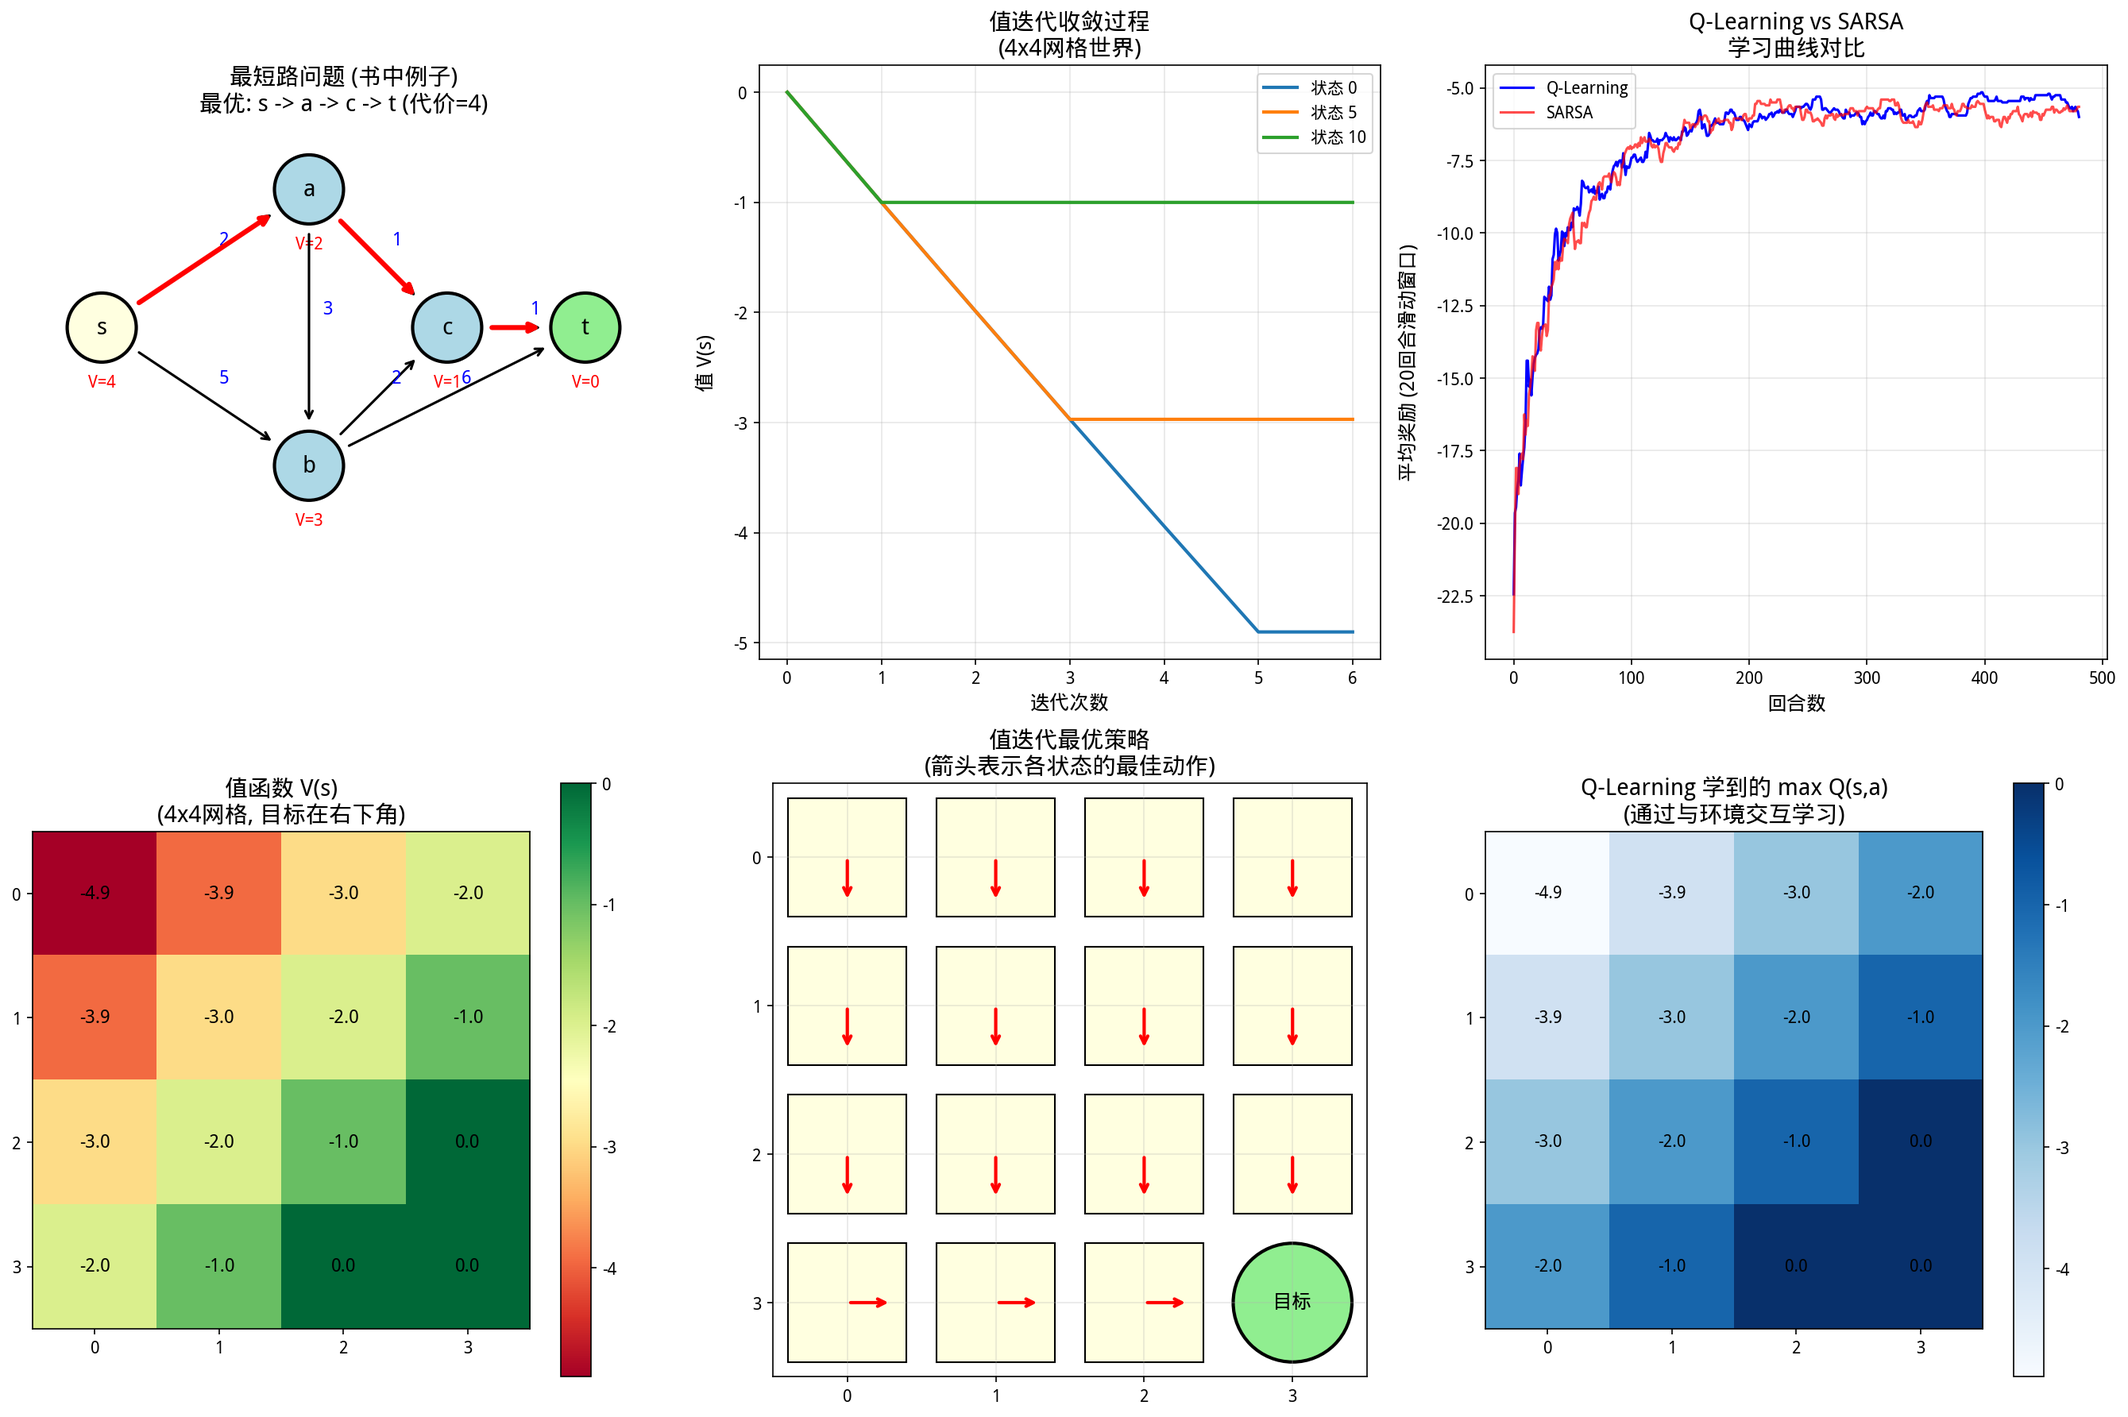
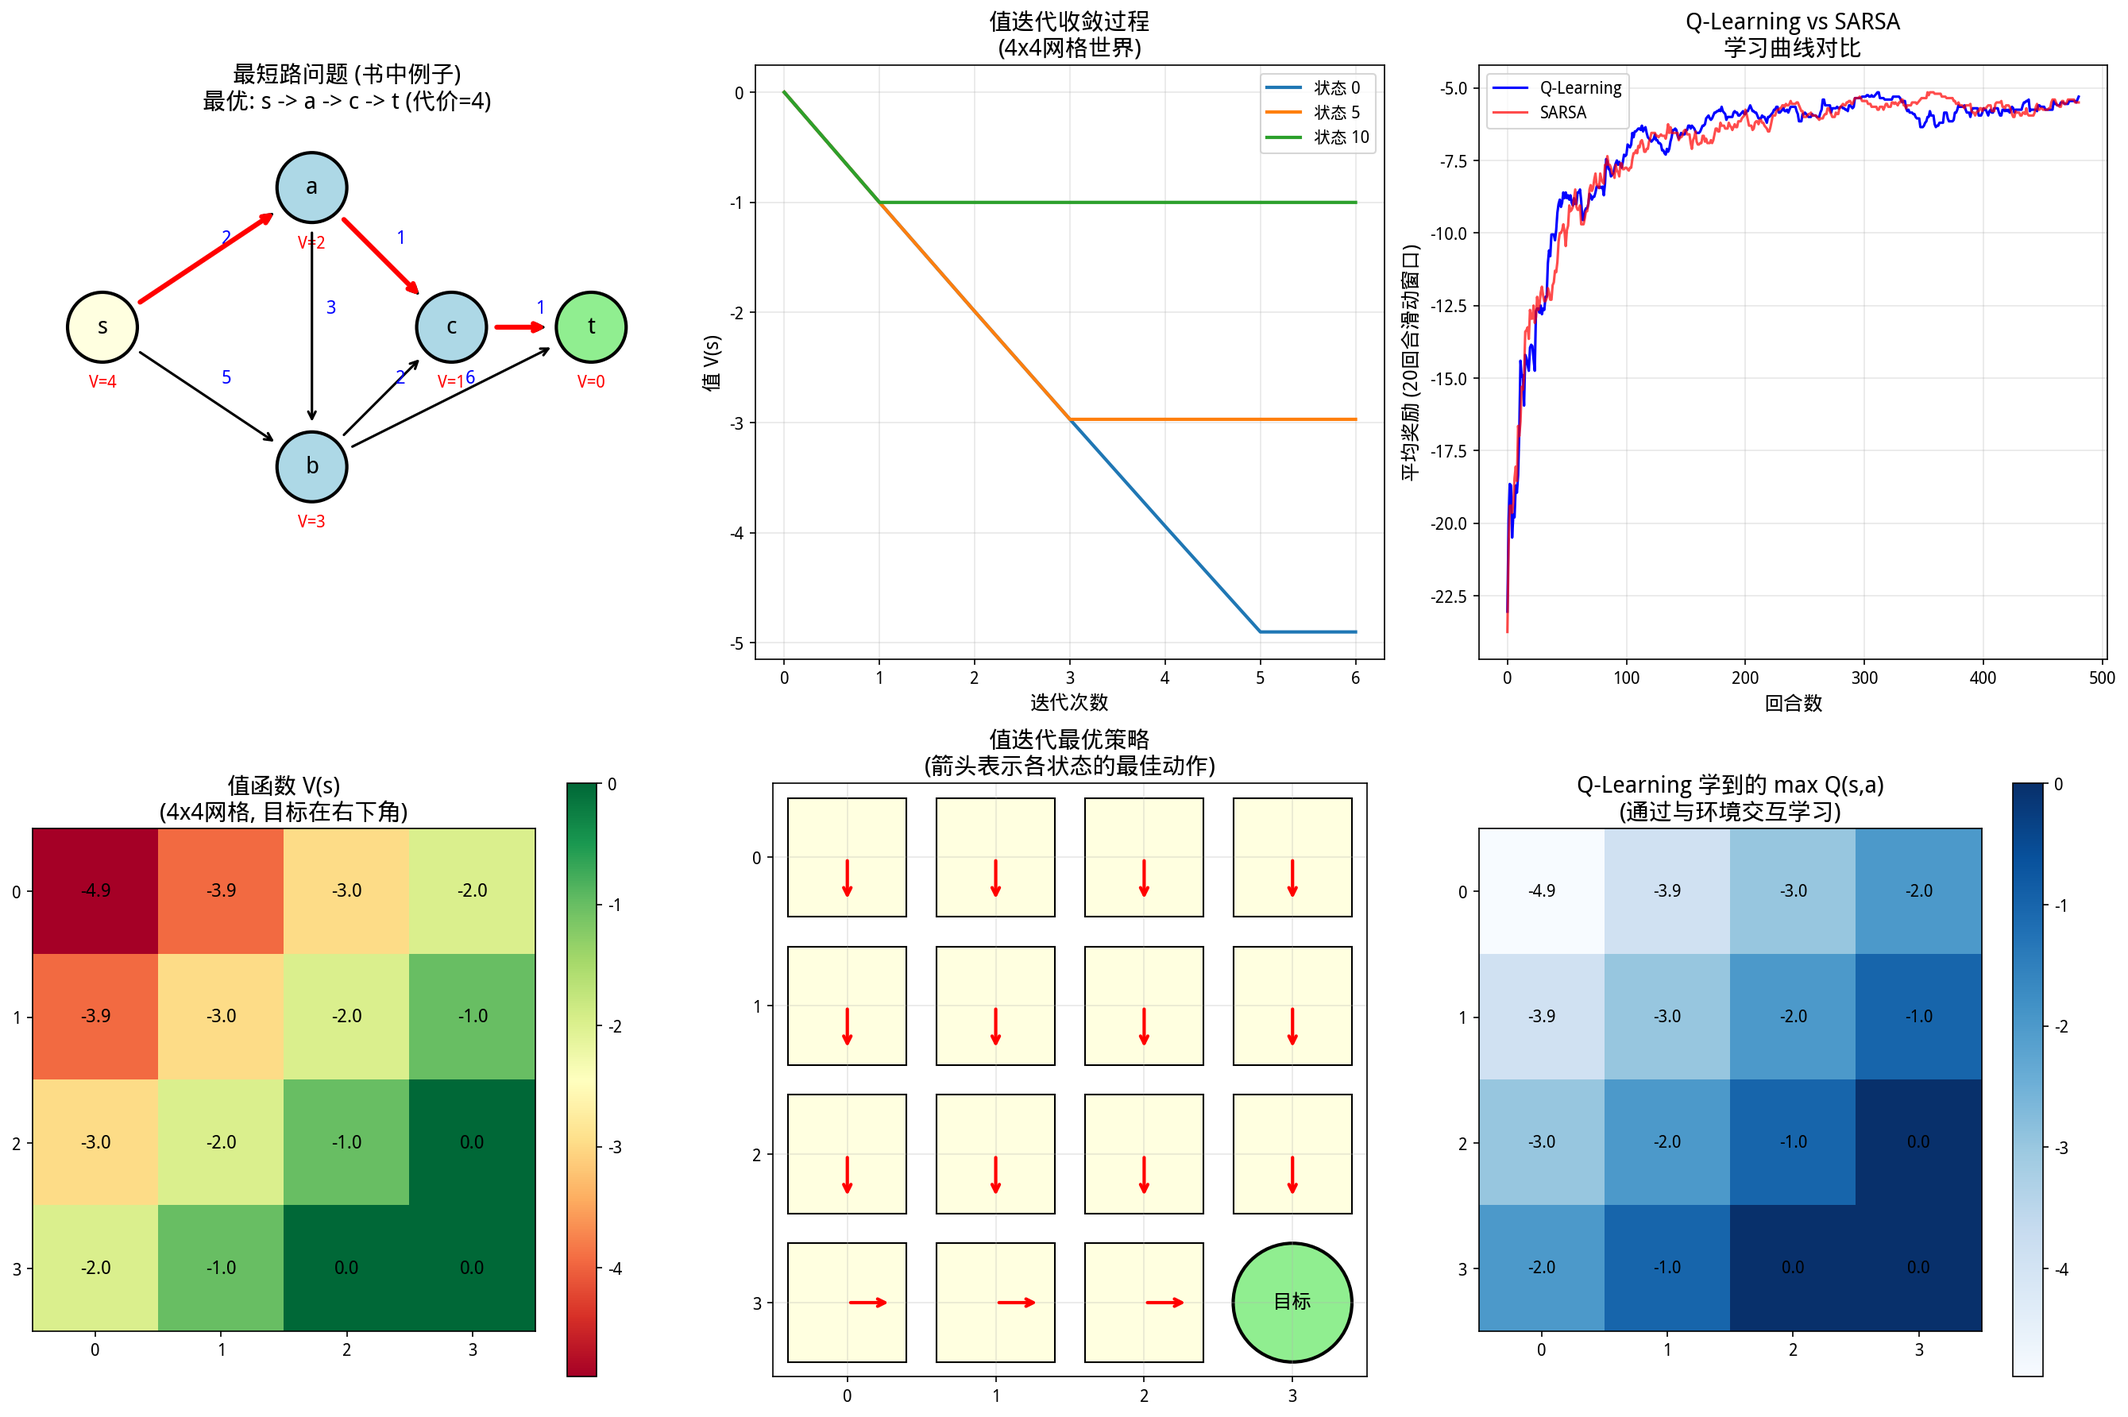
拆分第10章组合图为独立图片并放置到各章节
- 修改chap10_rl.py生成6个独立图片文件
- chap10_shortest_path.png: 放置在最短路问题小节
- chap10_value_iteration.png + chap10_value_heatmap.png: 放置在值迭代小节
- chap10_policy.png: 放置在值迭代小节展示最优策略
- chap10_qlearning_sarsa.png + chap10_qtable.png: 放置在Q-Learning对比小节
- 保留原有组合图chap10_fig1.png作为向后兼容
- 每个图片现在紧跟相关内容，提升阅读体验

diff --git a/code/chap10_rl.py b/code/chap10_rl.py
@@ -296,79 +296,88 @@ Q_sarsa, rewards_sarsa = sarsa(env, episodes=500, alpha=0.1, gamma=0.99, epsilon
 print(f"SARSA 最后100回合平均奖励: {np.mean(rewards_sarsa[-100:]):.2f}")
 print(f"Q-Learning 最后100回合平均奖励: {np.mean(rewards[-100:]):.2f}")
 
-# ==================== 可视化 ====================
-fig, axes = plt.subplots(2, 3, figsize=(18, 12))
+# ==================== 可视化（拆分为独立图片） ====================
 
-# 图1：最短路图
-ax1 = axes[0, 0]
-ax1.set_xlim(-0.5, 4)
-ax1.set_ylim(-0.5, 3)
+# 辅助函数：绘制最短路图
+def plot_shortest_path(ax, V_sp, pos, edges, path_edges):
+    ax.set_xlim(-0.5, 4)
+    ax.set_ylim(-0.5, 3)
+    for node, (x, y) in pos.items():
+        color = 'lightblue' if node not in ['s', 't'] else ('lightgreen' if node == 't' else 'lightyellow')
+        circle = plt.Circle((x, y), 0.25, color=color, ec='black', linewidth=2)
+        ax.add_patch(circle)
+        ax.text(x, y, node, ha='center', va='center', fontsize=14, fontweight='bold')
+        ax.text(x, y-0.4, f'V={V_sp[node]}', ha='center', va='center', fontsize=10, color='red')
+    for start, end, cost in edges:
+        x1, y1 = pos[start]
+        x2, y2 = pos[end]
+        dx, dy = x2 - x1, y2 - y1
+        length = np.sqrt(dx**2 + dy**2)
+        dx, dy = dx/length, dy/length
+        ax.annotate('', xy=(x2-0.3*dx, y2-0.3*dy), xytext=(x1+0.3*dx, y1+0.3*dy),
+                    arrowprops=dict(arrowstyle='->', color='black', lw=1.5))
+        mx, my = (x1+x2)/2, (y1+y2)/2
+        ax.text(mx+0.1, my+0.1, str(cost), fontsize=11, color='blue')
+    for start, end in path_edges:
+        x1, y1 = pos[start]
+        x2, y2 = pos[end]
+        dx, dy = x2 - x1, y2 - y1
+        length = np.sqrt(dx**2 + dy**2)
+        dx, dy = dx/length, dy/length
+        ax.annotate('', xy=(x2-0.3*dx, y2-0.3*dy), xytext=(x1+0.3*dx, y1+0.3*dy),
+                    arrowprops=dict(arrowstyle='->', color='red', lw=3))
+    ax.set_aspect('equal')
+    ax.axis('off')
 
 pos = {'s': (0, 1.5), 'a': (1.5, 2.5), 'b': (1.5, 0.5), 'c': (2.5, 1.5), 't': (3.5, 1.5)}
-
-for node, (x, y) in pos.items():
-    color = 'lightblue' if node not in ['s', 't'] else ('lightgreen' if node == 't' else 'lightyellow')
-    circle = plt.Circle((x, y), 0.25, color=color, ec='black', linewidth=2)
-    ax1.add_patch(circle)
-    ax1.text(x, y, node, ha='center', va='center', fontsize=14, fontweight='bold')
-    ax1.text(x, y-0.4, f'V={V_sp[node]}', ha='center', va='center', fontsize=10, color='red')
-
 edges = [('s', 'a', 2), ('s', 'b', 5), ('a', 'c', 1), ('a', 'b', 3), ('b', 'c', 2), ('b', 't', 6), ('c', 't', 1)]
-for start, end, cost in edges:
-    x1, y1 = pos[start]
-    x2, y2 = pos[end]
-    dx, dy = x2 - x1, y2 - y1
-    length = np.sqrt(dx**2 + dy**2)
-    dx, dy = dx/length, dy/length
-    ax1.annotate('', xy=(x2-0.3*dx, y2-0.3*dy), xytext=(x1+0.3*dx, y1+0.3*dy),
-                arrowprops=dict(arrowstyle='->', color='black', lw=1.5))
-    mx, my = (x1+x2)/2, (y1+y2)/2
-    ax1.text(mx+0.1, my+0.1, str(cost), fontsize=11, color='blue')
-
 path_edges = [('s', 'a'), ('a', 'c'), ('c', 't')]
-for start, end in path_edges:
-    x1, y1 = pos[start]
-    x2, y2 = pos[end]
-    dx, dy = x2 - x1, y2 - y1
-    length = np.sqrt(dx**2 + dy**2)
-    dx, dy = dx/length, dy/length
-    ax1.annotate('', xy=(x2-0.3*dx, y2-0.3*dy), xytext=(x1+0.3*dx, y1+0.3*dy),
-                arrowprops=dict(arrowstyle='->', color='red', lw=3))
 
-ax1.set_aspect('equal')
-ax1.axis('off')
-ax1.set_title('最短路问题 (书中例子)\n最优: s -> a -> c -> t (代价=4)', fontsize=14)
+# === 图1：最短路问题（独立保存）===
+fig1, ax1 = plt.subplots(figsize=(6, 5))
+plot_shortest_path(ax1, V_sp, pos, edges, path_edges)
+ax1.set_title('最短路问题：最优路径 s → a → c → t（代价=4）', fontsize=12)
+plt.tight_layout()
+plt.savefig('figs/chap10_shortest_path.png', dpi=150, bbox_inches='tight')
+print("已保存：figs/chap10_shortest_path.png")
+plt.close(fig1)
 
-# 图2：值迭代收敛
-ax2 = axes[0, 1]
+# === 图2：值迭代收敛（独立保存）===
+fig2, ax2 = plt.subplots(figsize=(6, 4))
 for s in [0, 5, 10]:
     values = [V_history[i][s] for i in range(len(V_history))]
     ax2.plot(values, label=f'状态 {s}', linewidth=2)
 ax2.set_xlabel('迭代次数', fontsize=12)
-ax2.set_ylabel('值 V(s)', fontsize=12, labelpad=10)
-ax2.set_title('值迭代收敛过程\n(4x4网格世界)', fontsize=14)
+ax2.set_ylabel('值 V(s)', fontsize=12)
+ax2.set_title('值迭代收敛过程（4×4网格世界）', fontsize=12)
 ax2.legend()
 ax2.grid(True, alpha=0.3)
+plt.tight_layout()
+plt.savefig('figs/chap10_value_iteration.png', dpi=150, bbox_inches='tight')
+print("已保存：figs/chap10_value_iteration.png")
+plt.close(fig2)
 
-# 图3：值函数热力图
-ax3 = axes[1, 0]
+# === 图3：值函数热力图（独立保存）===
+fig3, ax3 = plt.subplots(figsize=(5, 4))
 im = ax3.imshow(V.reshape(4, 4), cmap='RdYlGn')
 ax3.set_xticks(range(4))
 ax3.set_yticks(range(4))
 for i in range(4):
     for j in range(4):
         ax3.text(j, i, f'{V[i*4+j]:.1f}', ha='center', va='center', fontsize=11)
-ax3.set_title('值函数 V(s)\n(4x4网格, 目标在右下角)', fontsize=14)
+ax3.set_title('值函数 V(s)（4×4网格，目标在右下角）', fontsize=12)
 plt.colorbar(im, ax=ax3)
+plt.tight_layout()
+plt.savefig('figs/chap10_value_heatmap.png', dpi=150, bbox_inches='tight')
+print("已保存：figs/chap10_value_heatmap.png")
+plt.close(fig3)
 
-# 图4：最优策略
-ax4 = axes[1, 1]
+# === 图4：最优策略（独立保存）===
+fig4, ax4 = plt.subplots(figsize=(5, 5))
 arrow_dx = {0: 0, 1: 0, 2: -0.3, 3: 0.3}
 arrow_dy = {0: 0.3, 1: -0.3, 2: 0, 3: 0}
-
 ax4.set_xlim(-0.5, 3.5)
 ax4.set_ylim(-0.5, 3.5)
-
 for i in range(4):
     for j in range(4):
         s = i * 4 + j
@@ -382,29 +391,36 @@ for i in range(4):
             ax4.annotate('', xy=(j+arrow_dx[a], 3-i+arrow_dy[a]),
                         xytext=(j, 3-i),
                         arrowprops=dict(arrowstyle='->', color='red', lw=2))
-
 ax4.set_aspect('equal')
 ax4.set_xticks(range(4))
 ax4.set_yticks(range(4))
 ax4.set_yticklabels([3, 2, 1, 0])
-ax4.set_title('值迭代最优策略\n(箭头表示各状态的最佳动作)', fontsize=14)
+ax4.set_title('值迭代最优策略（箭头表示最佳动作）', fontsize=12)
 ax4.grid(True, alpha=0.3)
+plt.tight_layout()
+plt.savefig('figs/chap10_policy.png', dpi=150, bbox_inches='tight')
+print("已保存：figs/chap10_policy.png")
+plt.close(fig4)
 
-# 图5：Q-Learning 学习曲线
-ax5 = axes[0, 2]
+# === 图5：Q-Learning vs SARSA 学习曲线（独立保存）===
+fig5, ax5 = plt.subplots(figsize=(7, 4))
 window = 20
 smoothed_rewards = np.convolve(rewards, np.ones(window)/window, mode='valid')
 ax5.plot(smoothed_rewards, 'b-', linewidth=1.5, label='Q-Learning')
 smoothed_sarsa = np.convolve(rewards_sarsa, np.ones(window)/window, mode='valid')
 ax5.plot(smoothed_sarsa, 'r-', linewidth=1.5, alpha=0.7, label='SARSA')
 ax5.set_xlabel('回合数', fontsize=12)
-ax5.set_ylabel('平均奖励 (20回合滑动窗口)', fontsize=12, labelpad=10)
-ax5.set_title('Q-Learning vs SARSA\n学习曲线对比', fontsize=14)
+ax5.set_ylabel('平均奖励（20回合滑动窗口）', fontsize=12)
+ax5.set_title('Q-Learning vs SARSA 学习曲线对比', fontsize=12)
 ax5.legend()
 ax5.grid(True, alpha=0.3)
+plt.tight_layout()
+plt.savefig('figs/chap10_qlearning_sarsa.png', dpi=150, bbox_inches='tight')
+print("已保存：figs/chap10_qlearning_sarsa.png")
+plt.close(fig5)
 
-# 图6：Q 表可视化（热力图）
-ax6 = axes[1, 2]
+# === 图6：Q表热力图（独立保存）===
+fig6, ax6 = plt.subplots(figsize=(5, 4))
 Q_max = np.max(Q_learned, axis=1).reshape(4, 4)
 im6 = ax6.imshow(Q_max, cmap='Blues')
 ax6.set_xticks(range(4))
@@ -412,12 +428,85 @@ ax6.set_yticks(range(4))
 for i in range(4):
     for j in range(4):
         ax6.text(j, i, f'{Q_max[i, j]:.1f}', ha='center', va='center', fontsize=10)
-ax6.set_title('Q-Learning 学到的 max Q(s,a)\n(通过与环境交互学习)', fontsize=14)
+ax6.set_title('Q-Learning 学到的 max Q(s,a)', fontsize=12)
 plt.colorbar(im6, ax=ax6)
+plt.tight_layout()
+plt.savefig('figs/chap10_qtable.png', dpi=150, bbox_inches='tight')
+print("已保存：figs/chap10_qtable.png")
+plt.close(fig6)
+
+# === 保留原有的组合图（向后兼容）===
+fig, axes = plt.subplots(2, 3, figsize=(18, 12))
+
+# 子图1：最短路
+plot_shortest_path(axes[0, 0], V_sp, pos, edges, path_edges)
+axes[0, 0].set_title('最短路问题 (书中例子)\n最优: s -> a -> c -> t (代价=4)', fontsize=14)
+
+# 子图2：值迭代收敛
+for s in [0, 5, 10]:
+    values = [V_history[i][s] for i in range(len(V_history))]
+    axes[0, 1].plot(values, label=f'状态 {s}', linewidth=2)
+axes[0, 1].set_xlabel('迭代次数', fontsize=12)
+axes[0, 1].set_ylabel('值 V(s)', fontsize=12)
+axes[0, 1].set_title('值迭代收敛过程\n(4x4网格世界)', fontsize=14)
+axes[0, 1].legend()
+axes[0, 1].grid(True, alpha=0.3)
+
+# 子图3：值函数热力图
+im3 = axes[1, 0].imshow(V.reshape(4, 4), cmap='RdYlGn')
+axes[1, 0].set_xticks(range(4))
+axes[1, 0].set_yticks(range(4))
+for i in range(4):
+    for j in range(4):
+        axes[1, 0].text(j, i, f'{V[i*4+j]:.1f}', ha='center', va='center', fontsize=11)
+axes[1, 0].set_title('值函数 V(s)\n(4x4网格, 目标在右下角)', fontsize=14)
+plt.colorbar(im3, ax=axes[1, 0])
+
+# 子图4：最优策略
+axes[1, 1].set_xlim(-0.5, 3.5)
+axes[1, 1].set_ylim(-0.5, 3.5)
+for i in range(4):
+    for j in range(4):
+        s = i * 4 + j
+        if env.is_terminal(s):
+            axes[1, 1].add_patch(plt.Circle((j, 3-i), 0.4, color='lightgreen', ec='black', linewidth=2))
+            axes[1, 1].text(j, 3-i, '目标', ha='center', va='center', fontsize=12, fontweight='bold')
+        else:
+            axes[1, 1].add_patch(plt.Rectangle((j-0.4, 3-i-0.4), 0.8, 0.8,
+                                        color='lightyellow', ec='black', linewidth=1))
+            a = policy[s]
+            axes[1, 1].annotate('', xy=(j+arrow_dx[a], 3-i+arrow_dy[a]),
+                        xytext=(j, 3-i),
+                        arrowprops=dict(arrowstyle='->', color='red', lw=2))
+axes[1, 1].set_aspect('equal')
+axes[1, 1].set_xticks(range(4))
+axes[1, 1].set_yticks(range(4))
+axes[1, 1].set_yticklabels([3, 2, 1, 0])
+axes[1, 1].set_title('值迭代最优策略\n(箭头表示各状态的最佳动作)', fontsize=14)
+axes[1, 1].grid(True, alpha=0.3)
+
+# 子图5：Q-Learning vs SARSA
+axes[0, 2].plot(smoothed_rewards, 'b-', linewidth=1.5, label='Q-Learning')
+axes[0, 2].plot(smoothed_sarsa, 'r-', linewidth=1.5, alpha=0.7, label='SARSA')
+axes[0, 2].set_xlabel('回合数', fontsize=12)
+axes[0, 2].set_ylabel('平均奖励 (20回合滑动窗口)', fontsize=12)
+axes[0, 2].set_title('Q-Learning vs SARSA\n学习曲线对比', fontsize=14)
+axes[0, 2].legend()
+axes[0, 2].grid(True, alpha=0.3)
+
+# 子图6：Q表热力图
+im6 = axes[1, 2].imshow(Q_max, cmap='Blues')
+axes[1, 2].set_xticks(range(4))
+axes[1, 2].set_yticks(range(4))
+for i in range(4):
+    for j in range(4):
+        axes[1, 2].text(j, i, f'{Q_max[i, j]:.1f}', ha='center', va='center', fontsize=10)
+axes[1, 2].set_title('Q-Learning 学到的 max Q(s,a)\n(通过与环境交互学习)', fontsize=14)
+plt.colorbar(im6, ax=axes[1, 2])
 
 plt.tight_layout()
 plt.savefig('figs/chap10_fig1.png', dpi=150, bbox_inches='tight')
-print("\n图像已保存到 figs/chap10_fig1.png")
+print("\n组合图已保存到 figs/chap10_fig1.png")
 
 plt.show()
 print("\n第10章代码执行完成！")

diff --git a/chapters/chap10.tex b/chapters/chap10.tex
@@ -581,7 +581,12 @@ r(s_t,a)+\gamma V(f(s_t,a))
 \caption{深度优先与广度优先策略的比较}
 \end{table}
 
-
+\begin{figure}[h]
+\centering
+\includegraphics[width=0.6\textwidth]{figs/chap10_shortest_path.png}
+\caption{最短路问题示意图。红色箭头标示最优路径$s \to a \to c \to t$，总代价为4。每个节点旁标注的$V$值是从该点到终点的最短距离。}
+\label{fig:shortest_path}
+\end{figure}
 
 \subsection{最短路的线性规划形式}
 
@@ -1577,6 +1582,28 @@ def value_iteration(env, gamma=1.0, threshold=1e-6):
     \item \textbf{计算量}：每轮 $25 \times 4 = 100$ 次模型调用，约 9 轮收敛
 \end{itemize}
 
+\begin{figure}[h]
+\centering
+\begin{minipage}{0.48\textwidth}
+    \centering
+    \includegraphics[width=\textwidth]{figs/chap10_value_iteration.png}
+\end{minipage}
+\hfill
+\begin{minipage}{0.48\textwidth}
+    \centering
+    \includegraphics[width=\textwidth]{figs/chap10_value_heatmap.png}
+\end{minipage}
+\caption{值迭代结果。\textbf{左}：不同状态的值函数随迭代次数的变化，展示收敛过程；\textbf{右}：收敛后的值函数热力图，颜色越绿表示到达目标的期望回报越高。}
+\label{fig:value_iteration}
+\end{figure}
+
+\begin{figure}[h]
+\centering
+\includegraphics[width=0.45\textwidth]{figs/chap10_policy.png}
+\caption{值迭代得到的最优策略。箭头指向每个状态应采取的最佳动作，指引智能体沿最短路径到达右下角的目标。}
+\label{fig:policy}
+\end{figure}
+
 % ------------------------------------------------------------------------------------
 \subsection{Q-Learning：从试错中学习}
 % ------------------------------------------------------------------------------------
@@ -1805,12 +1832,20 @@ Q-Learning：训练了 2000 个回合
 \end{remark}
 
 % ------------------------------------------------------------------------------------
-% 代码演示结果
-\begin{figure}[htbp]
+% Q-Learning 实验结果
+\begin{figure}[h]
 \centering
-\includegraphics[width=0.95\textwidth]{figs/chap10_fig1.png}
-\caption{强化学习与贝尔曼方程演示（2行3列）。\textbf{上排从左到右}：（1）最短路问题——红色箭头标示最优路径$s \to a \to c \to t$，总代价为4；（2）值迭代收敛——GridWorld中不同状态的值函数随迭代次数的变化；（3）Q-Learning vs SARSA——两种无模型算法的学习曲线对比（20回合滑动平均）。\textbf{下排从左到右}：（4）值函数热力图——4×4网格中每个状态的最优值$V(s)$，颜色越绿值越高；（5）最优策略——箭头指向每个状态应采取的最优动作；（6）Q表热力图——Q-Learning通过与环境交互学到的$\max_a Q(s,a)$值。对比（4）和（6）：值迭代需要已知模型，Q-Learning无需模型但需要大量交互。}
-\label{fig:chap10_rl}
+\begin{minipage}{0.55\textwidth}
+    \centering
+    \includegraphics[width=\textwidth]{figs/chap10_qlearning_sarsa.png}
+\end{minipage}
+\hfill
+\begin{minipage}{0.42\textwidth}
+    \centering
+    \includegraphics[width=\textwidth]{figs/chap10_qtable.png}
+\end{minipage}
+\caption{\textbf{左}：Q-Learning与SARSA的学习曲线对比。两种无模型算法通过与环境交互不断改进，最终都能学到接近最优的策略。\textbf{右}：Q-Learning学到的$\max_a Q(s,a)$热力图，可与图\ref{fig:value_iteration}中的值函数对比——虽然训练方式完全不同（无模型vs有模型），最终学到的值函数非常接近。}
+\label{fig:qlearning_results}
 \end{figure}
 
 % ------------------------------------------------------------------------------------
